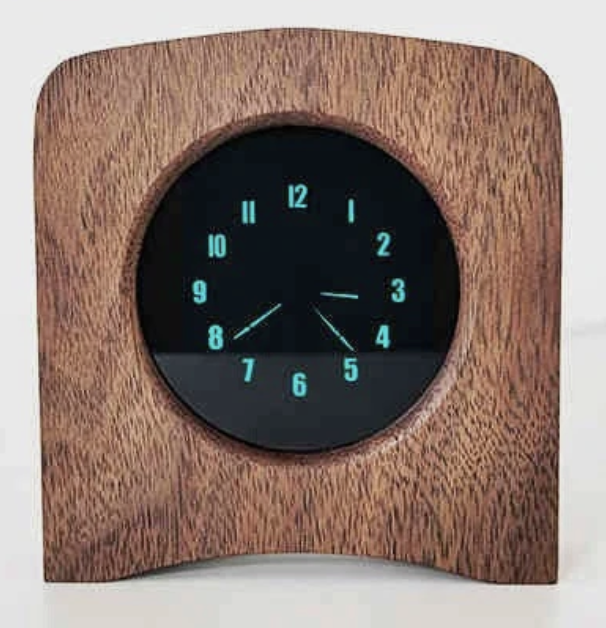
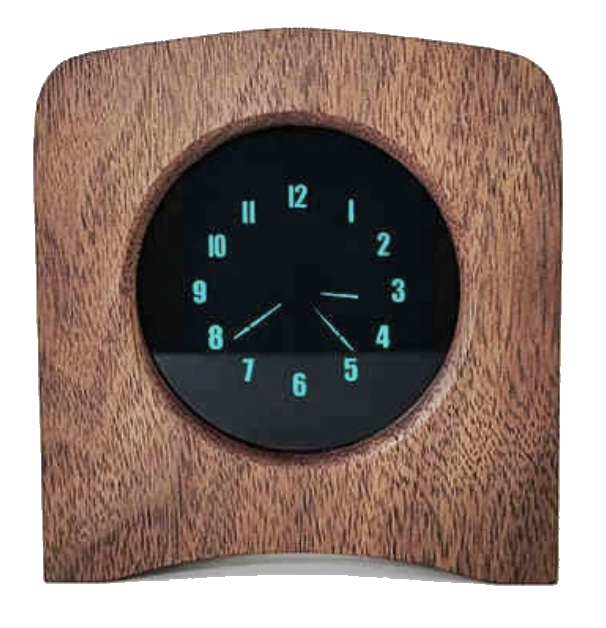
docs: v0.1.1 changelog; make the clock photo background transparent

diff --git a/CHANGELOG.md b/CHANGELOG.md
@@ -1,3 +1,9 @@
+## v0.1.1 (2026-09-07)
+
+- Fix Homebrew formula publishing so a release updates the `katbyte/homebrew-tap` formula (`brew install katbyte/tap/acornvfd`).
+- Tooling parity with the other katbyte CLIs: azproviderlint (AZG) via a custom golangci-lint build, plus CodeQL, govulncheck, and shellcheck workflows.
+- Add SECURITY.md, CODE_OF_CONDUCT.md, and a photo of the clock in the README.
+
 ## v0.1.0 (2026-09-07)
 
 - Initial release. Control the 橡果工坊 (Acorn Workshop) XGGF-1V48 VFD clock over Bluetooth LE from macOS, Linux, or Windows: `time`, `date`, `brightness`, `alarm`, `display`, `tick`, `transition`, `auto-sync`, plus `scan`, `dump`, `listen`, `raw`, and decoded-but-untested `lamp` commands. Protocol reverse-engineered from the vendor app; see PROTOCOL.md.
